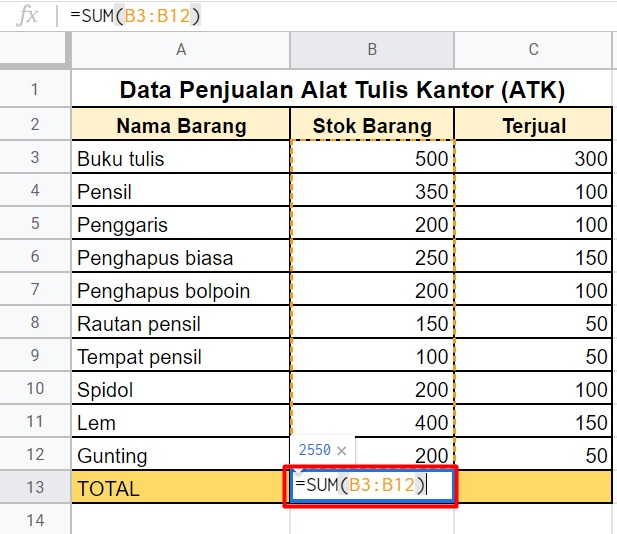
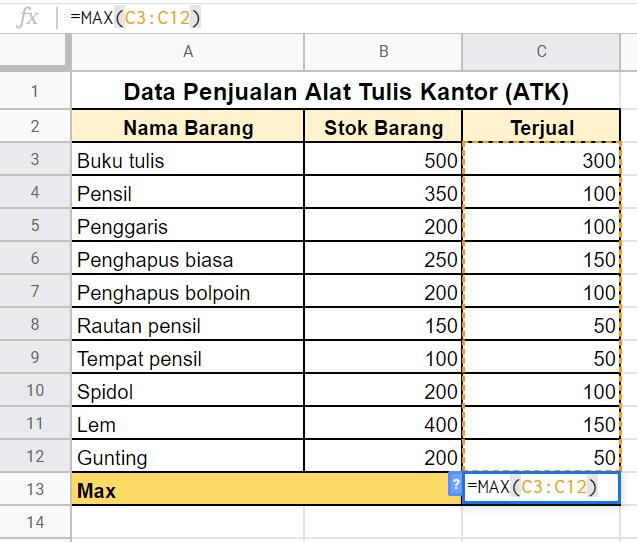
add: more

Changed region(s): [[0.0, 0.0, 1.0, 1.0], [0.0308, 0.2097, 0.0616, 0.2397], [0.0308, 0.1498, 0.0616, 0.1798]]

diff --git a/Dasar_Visualisasi_Data/visualisasi2.md b/Dasar_Visualisasi_Data/visualisasi2.md
@@ -446,3 +446,218 @@ Sementara itu, untuk mengetahui berapa orang yang berjenis kelamin laki-laki dan
 ![alt text](image-68.png)
 
 Penulisan fungsi yang digunakan =COUNTIFS(C3:C12,"L",D3:D12,"Sepak bola")
+
+# Fungsi Min, Max, Trim, Replace, Unique, dan If pada Spreadsheet
+
+## MIN dan MAX
+
+Apakah Anda pernah menggunakan fungsi MIN dan MAX sebelumnya? Kedua fungsi ini berguna untuk menentukan nilai terendah (MIN) dan tertinggi (MAX) dari suatu rentang data yang terpilih. Contoh penggunaan rumus MIN dan MAX seperti berikut:
+
+```bash
+=MIN(data ke-1, data ke-2, …, data ke-n)
+```
+
+```bash
+=MAX(data ke-1, data ke-2, …, data ke-n)
+```
+
+Contoh kasus:
+
+Kita kembali menggunakan tabel data penjualan ATK di bawah ini untuk menerapkan contoh kasus penggunaan fungsi MIN dan MAX.
+
+![alt text](image-69.png)
+
+Nah, berdasarkan tabel di atas, apa yang kita lakukan jika ingin mengetahui jumlah penjualan paling tinggi dan paling sedikit?
+
+1. Pertama, untuk mengetahui barang apa yang paling banyak terjual gunakan rumus =MAX(C3:C12).
+
+![alt text](image-70.png)
+
+Rumus MAX di atas memilih rentang data mulai dari C3 hingga C12 sehingga dapat disimpulkan bahwa angka penjualan paling banyak pada rentang data tersebut sejumlah 300.
+
+2. Selanjutnya, untuk mencari angka penjualan paling rendah, rumus yang dapat diterapkan adalah =MIN(C3:C12).
+
+![alt text](image-71.png)
+![alt text](image-72.png)
+
+Rumus MIN di atas memilih rentang data mulai dari C3 hingga C12. Kesimpulannya, angka penjualan paling sedikit pada data rentang tersebut adalah 50.
+
+## TRIM
+
+Selanjutnya, fungsi TRIM digunakan untuk menghilangkan ruang kosong yang tidak dibutuhkan pada sebuah teks. Fungsi ini hanya berjalan pada sel tunggal bukan pada rentang sel. Penggunaan rumusnya adalah sebagai berikut:
+
+```bash
+=TRIM(teks)
+```
+
+Contoh kasus:
+
+Untuk menerapkan fungsi TRIM, kita gunakan contoh kasus dengan data seperti berikut:
+
+![alt text](image-73.png)
+
+Terlihat pada contoh di atas bahwa data yang ada terlalu banyak spasi dan tidak rapi. Di sinilah kegunaan fungsi TRIM. Terapkan rumus =TRIM(A2) pada sel B2 sebagai berikut:
+
+![alt text](image-74.png)
+
+Setelah menggunakan fungsi TRIM, data yang dihasilkan pun menjadi lebih rapi. Sekarang, coba gunakan fungsi TRIM untuk merapikan data pada sel A3 dan seterusnya. Tampilan akhirnya sebagai berikut:
+
+![alt text](image-75.png)
+
+## REPLACE
+
+Selanjutnya, terdapat fungsi REPLACE. Tahukah Anda apakah fungsi REPLACE dalam spreadsheet? REPLACE dapat digunakan untuk mengganti string, baik berupa angka maupun teks biasa. Sistematika penulisan fungsi REPLACE adalah sebagai berikut:
+
+```bash
+=REPLACE(text, position, length, new_text)
+```
+
+Contoh kasus:
+
+![alt text](image-76.png)
+
+Pada contoh data di atas, terdapat 3 data yang ingin kita ganti, yaitu:
+
+- Buka diganti menjadi Buku
+- Saya membaca buku diganti menjadi Saya menulis buku
+- Saya123 diganti menjadi Aku123
+
+Mari kita praktikkan.
+
+1. Untuk contoh pertama, kita menerapkan fungsi sebagai berikut pada sel B2.
+
+![alt text](image-77.png)
+
+Berikut penjelasannya sesuai sistematika penulisannya:
+
+- Parameter 1: Text -> Dapat diisi dengan teks secara langsung atau alamat sel. Dalam contoh di atas, kita menggunakan alamat sel A2.
+
+- Parameter 2: Position -> Posisi atau urutan dari huruf yang ingin diganti. Dalam hal ini, huruf “a” yang ingin kita ganti berada di urutan ke-4 dari kata “Buka”.
+
+- Parameter 3: Length -> Panjang karakter yang ingin kita ganti. Karena yang ingin kita ganti hanya huruf “a” saja, berarti kita isi dengan 1.
+
+- Parameter 4: New_text -> Teks baru yang ingin kita gunakan untuk mengganti teks lama, bisa berupa angka atau huruf. Dalam contoh di atas, kita menggunakan huruf “u” sebagai teks baru supaya kata “Buka” bisa berganti menjadi “Buku”.
+
+2. Contoh selanjutnya, kita ingin mengganti kalimat “Saya membaca buku” menjadi “Saya menulis buku”.
+
+![alt text](image-78.png)
+
+Berikut penjelasannya sesuai sistematika penulisannya:
+
+- Parameter 1: Text -> Dapat diisi dengan teks secara langsung atau alamat sel. Dalam contoh di atas, kita menggunakan alamat sel A3.
+
+- Parameter 2: Position -> Posisi atau urutan dari huruf yang ingin diganti. Dalam hal ini, kata “membaca” yang ingin kita ganti berada di urutan ke-6 dengan spasi terhitung satu karakter.
+
+- Parameter 3: Length -> Panjang karakter yang ingin kita ganti. Karena yang ingin diganti adalah kata “membaca”, berarti kita isi dengan 7.
+
+- Parameter 4: New_text -> Teks baru yang ingin kita gunakan untuk mengganti teks lama, bisa berupa angka, huruf, dan kalimat. Dalam contoh di atas, kita menggunakan kata “menulis” sebagai teks baru supaya kata “membaca” bisa berganti menjadi “menulis”.
+
+3. Kemudian, kita juga ingin mengganti kalimat “Saya123” menjadi “Aku123”.
+
+![alt text](image-79.png)
+
+Berikut penjelasannya sesuai sistematika penulisannya:
+
+- Parameter 1: Text -> Dapat diisi dengan teks secara langsung atau alamat sel. Dalam contoh di atas, kita menggunakan alamat sel A4.
+
+- Parameter 2: Position -> Posisi atau urutan dari huruf yang ingin diganti. Dalam hal ini, kata “Saya123” hanya diganti bagian “Saya” saja sehingga urutan karakternya diisi dengan 1.
+
+- Parameter 3: Length -> Panjang karakter yang ingin kita ganti. Karena yang ingin diganti kata “Saya”, berarti kita isi dengan 4.
+
+- Parameter 4: New_text -> Teks baru yang ingin kita gunakan untuk mengganti teks lama, bisa berupa angka, huruf, dan kalimat. Dalam contoh di atas, kita menggunakan kata “Aku”.
+
+Hasil akhirnya adalah sebagai berikut:
+
+![alt text](image-80.png)
+
+## UNIQUE
+
+UNIQUE merupakan sebuah fungsi yang dapat kita gunakan untuk mencari data yang unik dari sebuah data yang mungkin saja ada yang sama. Sistematika penulisannya sebagai berikut:
+
+```bash
+=UNIQUE(range)
+```
+
+Contoh kasus:
+
+![alt text](image-81.png)
+
+Bagaimanakah jika kita ingin mengambil data yang unik saja dari data di atas?
+
+Jawab:
+
+Kita dapat menggunakan fungsi UNIQUE seperti di bawah ini:
+
+![alt text](image-82.png)
+
+Secara otomatis setelah fungsi dijalankan hasilnya akan memunculkan daftar data yang unik dari nama barang. Tidak akan muncul data yang sama seperti pada kolom C pada gambar di bawah ini:
+
+![alt text](image-83.png)
+
+## IF
+
+Fungsi IF digunakan untuk membuat perbandingan logis antara sebuah data dengan kondisi pengujian yang diberikan. Penggunaannya sebagai berikut:
+
+```bash
+=IF(Sel yang ingin diuji, [nilai jika benar], [nilai jika salah])
+```
+
+Contoh:
+
+```bash
+= IF (E4>=E3, “Ya”,”Salah”)
+```
+
+Berdasarkan contoh di atas, kita akan memeriksa apakah nilai pada sel E4 lebih besar atau sama dengan sel E3. Jika logikanya benar, nilai sel tempat fungsi tersebut menjadi bernilai “Ya”; sedangkan jika salah, maka bernilai “Salah”.
+
+## IF Sederhana
+
+Untuk menerapkan fungsi IF dalam contoh kasus, kita modifikasi contoh tabel Penjualan data seperti berikut:
+
+![alt text](image-84.png)
+
+Contoh kasus:
+
+Kita ingin mengetahui status penjualan setiap barang berdasarkan dua opsi kategori berikut: “Bagus” atau “Perlu ditingkatkan”. Kondisi untuk menentukan status tersebut adalah:
+
+- Jika barang yang terjual lebih dari 75 unit, maka statusnya masuk kategori "Bagus".
+- Jika barang yang terjual sama atau kurang dari 75 unit, maka statusnya masuk kategori "Perlu ditingkatkan".
+
+Bagaimana cara mengetahuinya?
+
+Pada alamat sel D3, masukkan rumus =IF(C3>75,"Bagus","Perlu ditingkatkan"). Fungsi tersebut memeriksa sel C3, yang berisi nilai 300, apakah lebih besar dari angka standar yang ditentukan (pada kasus ini 75).
+
+![alt text](image-85.png)
+
+Hasil dari rumus tersebut adalah “Bagus” karena 300 lebih besar daripada 75. Sekarang, gunakan rumus tersebut untuk sel lainya pada kolom D. Hasil akhir akan terlihat seperti berikut.
+
+![alt text](image-86.png)
+
+## IF Bertingkat
+
+![alt text](image-87.png)
+
+Terdapat 5 nilai siswa (lihat kolom D) dalam sebuah ulangan matematika. Bagaimana caranya jika kita ingin mengetahui nilai huruf dari kelima siswa tersebut?
+
+Jawab:
+
+Kita dapat menggunakan IF bertingkat pada alamat sel E3 seperti berikut:
+
+```bash
+=IF(D3>=90,"A",IF(D3>=80,"B",IF(D3>=70,"C",IF(D3>=60,"D","E"))))
+```
+
+![alt text](image-88.png)
+
+Pada tabel di atas terdapat, empat logika IF.
+
+- IF pertama digunakan untuk menguji apakah nilainya lebih dari atau sama dengan 90. Jika benar, maka akan mendapatkan nilai huruf A.
+- Jika salah, maka akan disambung dengan IF kedua, yaitu menguji apakah nilainya lebih dari atau sama dengan 80. Jika benar, maka akan mendapatkan nilai huruf B.
+- Jika ternyata masih salah, maka akan disambung dengan IF ketiga, yaitu menguji apakah nilai lebih besar atau sama dengan 70. Jika benar, maka akan mendapatkan nilai huruf C.
+- Terakhir, jika masih belum memenuhi kondisi, maka akan diuji apakah nilai lebih dari atau sama dengan 60. Jika benar, maka akan mendapatkan nilai D.
+- Jika tidak memenuhi kondisi di atas, berarti otomatis mendapat nilai E karena di bawah 60.
+- Jangan lupa untuk menggunakan tutup kurung sebanyak jumlah IF pada akhir fungsi.
+
+Seluruh hasilnya akan tampak sebagai berikut:
+
+![alt text](image-89.png)
